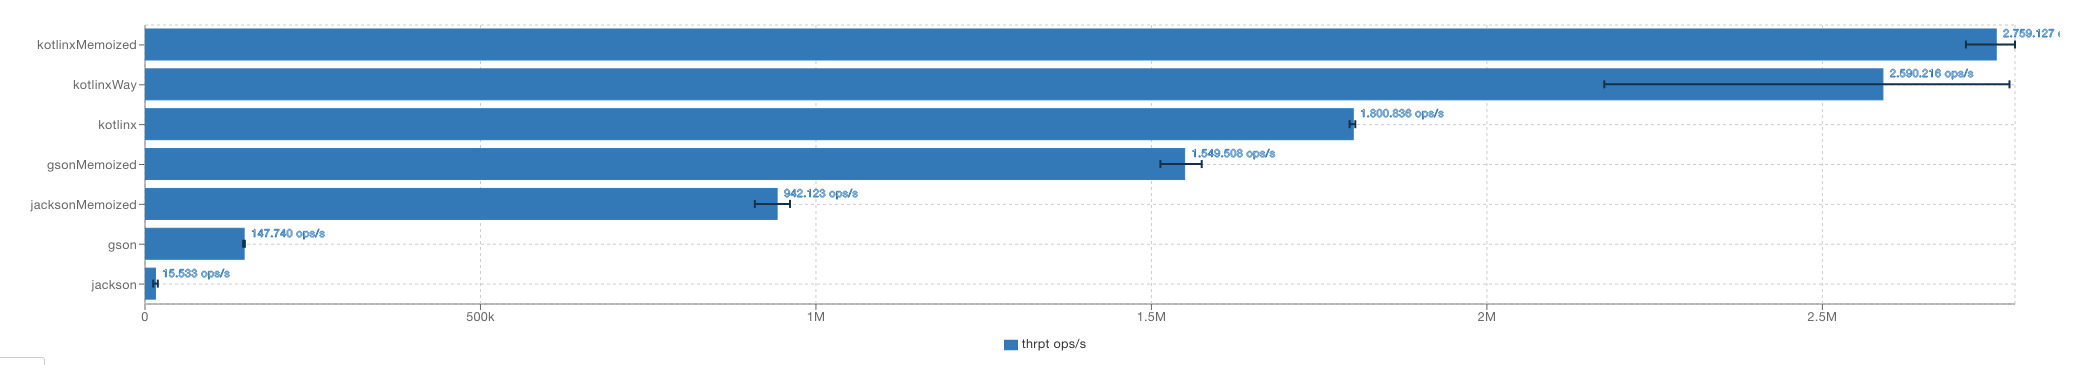
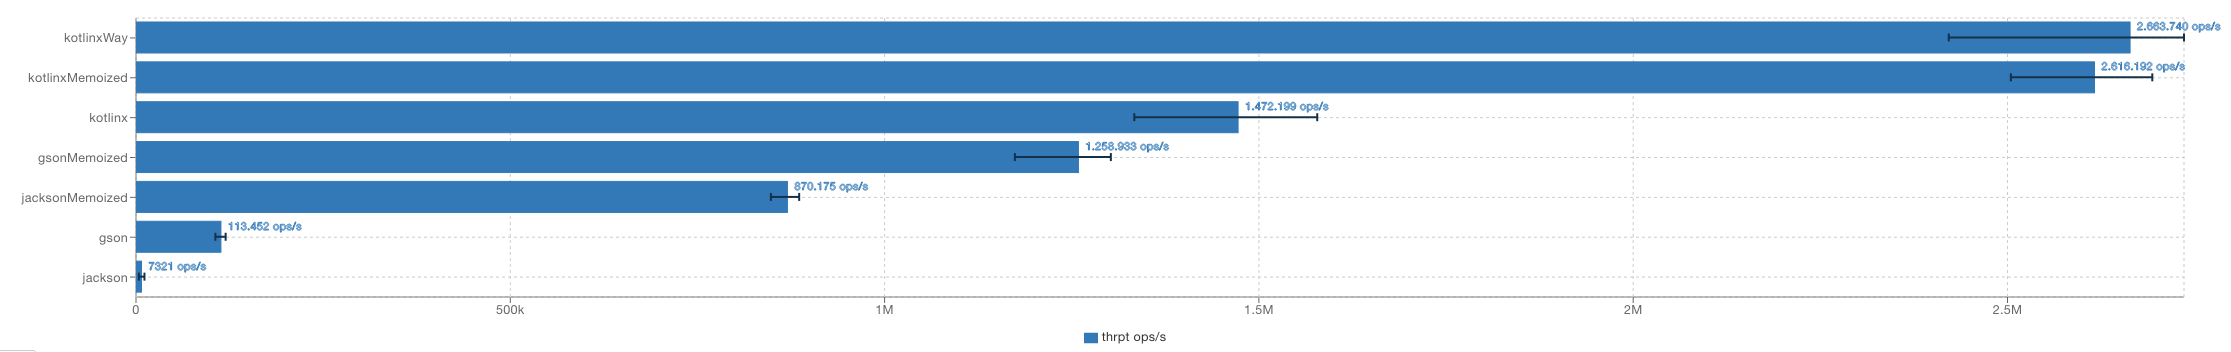
update results

diff --git a/README.md b/README.md
@@ -17,20 +17,20 @@ Using [JMH 1.36](https://github.com/openjdk/jmh) as Benchmark tool
 
 ```
 Benchmark                              Mode  Cnt        Score        Error  Units
-DeserializeBenchmark.gson             thrpt    5    69894.573 ± 128595.241  ops/s
-DeserializeBenchmark.gsonMemoized     thrpt    5  1522166.825 ±  60386.010  ops/s
-DeserializeBenchmark.jackson          thrpt    5    22026.399 ±    589.403  ops/s
-DeserializeBenchmark.jacksonMemoized  thrpt    5   974237.538 ±   9846.925  ops/s
-DeserializeBenchmark.kotlinx          thrpt    5  1789183.875 ±  74900.579  ops/s
-DeserializeBenchmark.kotlinxMemoized  thrpt    5  2796742.540 ±  83919.359  ops/s
-DeserializeBenchmark.kotlinxWay       thrpt    5  2842240.038 ±  69050.209  ops/s
-SerializeBenchmark.gson               thrpt    5   149364.917 ±   1333.079  ops/s
-SerializeBenchmark.gsonMemoized       thrpt    5  1417857.711 ±   9613.048  ops/s
-SerializeBenchmark.jackson            thrpt    5    16149.307 ±    423.247  ops/s
-SerializeBenchmark.jacksonMemoized    thrpt    5  3143054.962 ±  57989.535  ops/s
-SerializeBenchmark.kotlinx            thrpt    5  2290690.642 ± 724352.666  ops/s
-SerializeBenchmark.kotlinxMemoized    thrpt    5  4838642.669 ± 230345.836  ops/s
-SerializeBenchmark.kotlinxWay         thrpt    5  4868722.910 ± 181528.326  ops/s
+DeserializeBenchmark.gson             thrpt    5   113451.693 ±  21302.048  ops/s
+DeserializeBenchmark.gsonMemoized     thrpt    5  1258932.806 ± 202443.061  ops/s
+DeserializeBenchmark.jackson          thrpt    5     7320.871 ±  11382.451  ops/s
+DeserializeBenchmark.jacksonMemoized  thrpt    5   870175.114 ±  56983.868  ops/s
+DeserializeBenchmark.kotlinx          thrpt    5  1472199.156 ± 458727.010  ops/s
+DeserializeBenchmark.kotlinxMemoized  thrpt    5  2616191.702 ± 274387.406  ops/s
+DeserializeBenchmark.kotlinxWay       thrpt    5  2663739.907 ± 522767.480  ops/s
+SerializeBenchmark.gson               thrpt    5   120116.597 ±  72109.725  ops/s
+SerializeBenchmark.gsonMemoized       thrpt    5  1227384.510 ± 284068.641  ops/s
+SerializeBenchmark.jackson            thrpt    5    11743.604 ±    378.925  ops/s
+SerializeBenchmark.jacksonMemoized    thrpt    5  2899099.082 ±  59709.978  ops/s
+SerializeBenchmark.kotlinx            thrpt    5  2126410.027 ± 175240.199  ops/s
+SerializeBenchmark.kotlinxMemoized    thrpt    5  4344792.051 ± 392252.976  ops/s
+SerializeBenchmark.kotlinxWay         thrpt    5  4185206.404 ± 824291.419  ops/s
 
 ```
 ### DESERIALIZE
